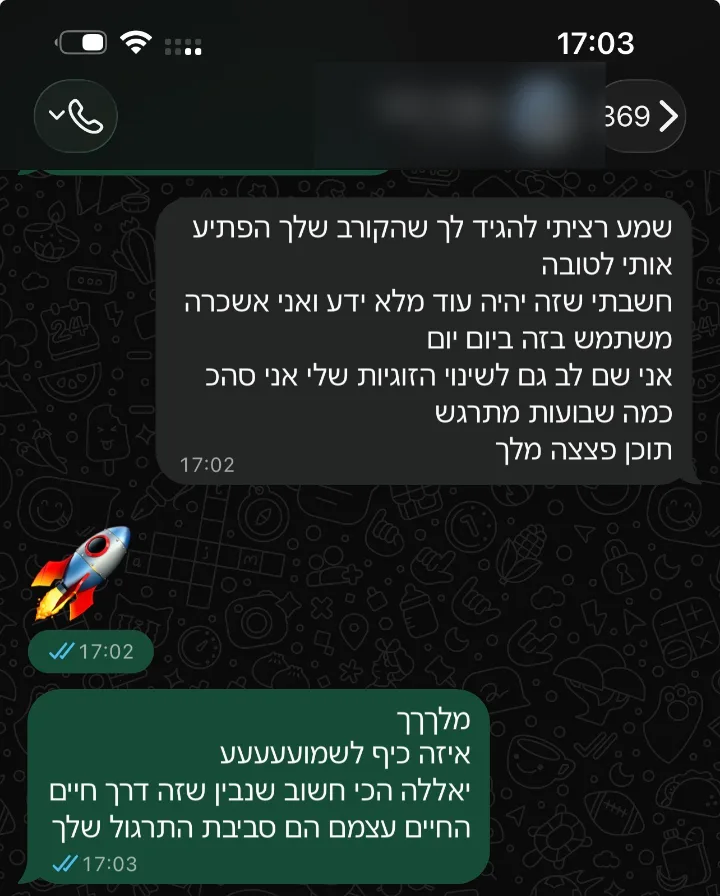
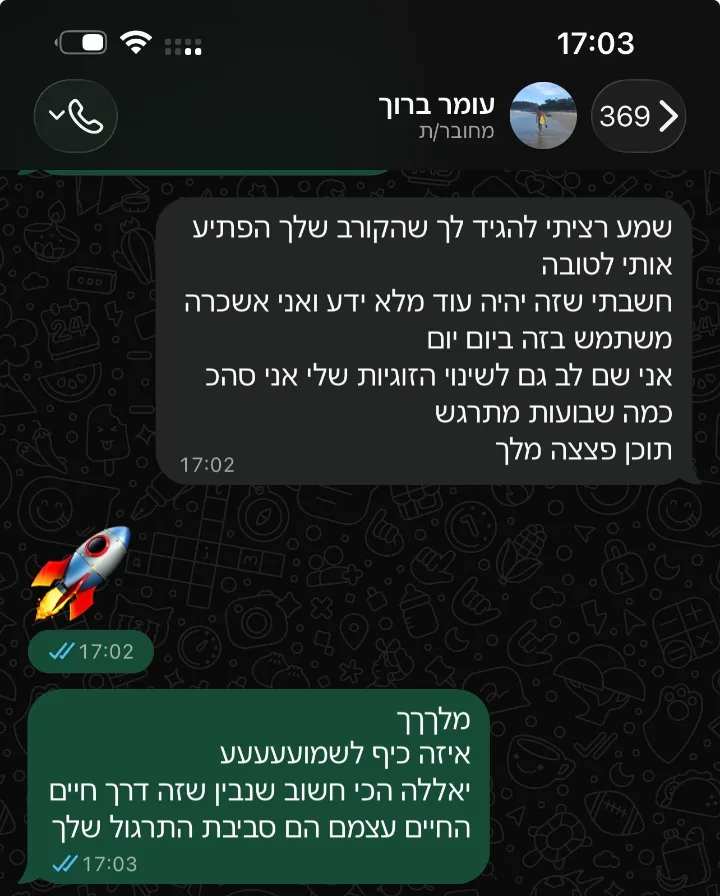
ב49: pr2 testimonials 0183/0188 without blur (permission confirmed), first names in captions
Claude-Session: https://claude.ai/code/session_01AWaDsUUa9CSR7XwcRd86aw

Changed region(s): [[0.5194, 0.0625, 0.825, 0.1875]]

diff --git a/nlp/pr2.html b/nlp/pr2.html
@@ -389,8 +389,8 @@ html.review [data-new]::before{content:attr(data-new);position:absolute;top:-14p
  <div class="narrow center"><h2 class="rv">אל תסתפק במה שאני מספר. <mark>תקרא מה אנשים אמיתיים בחרו לשתף.</mark></h2></div>
  <div class="car rv" data-car>
   <div class="car-track" tabindex="0" aria-label="עדויות מוואטסאפ, אפשר להחליק">
-   <figure class="slide" data-new="חדש - פרטים מטושטשים"><figcaption><q>חשבתי שזה יהיה עוד מלא ידע ואני אשכרה משתמש בזה ביום יום</q><span>משתתף · הודעה בוואטסאפ</span></figcaption><button class="zoom" type="button" aria-label="קריאת ההודעה המלאה"><img src="assets/pr/wa-o183.webp" alt="ההודעה המקורית בוואטסאפ, הפרטים האישיים מטושטשים" loading="lazy" decoding="async" width="720" height="896"></button></figure>
-   <figure class="slide" data-new="חדש - פרטים מטושטשים"><figcaption><q>אני כבר שבוע עושה את התרגול והטמעה של העוגן עם הקפה וממש מרגישה שינוי</q><span>משתתפת · העוגן עם הקפה</span></figcaption><button class="zoom" type="button" aria-label="קריאת ההודעה המלאה"><img src="assets/pr/wa-o188.webp" alt="ההודעה המקורית בוואטסאפ, הפרטים האישיים מטושטשים" loading="lazy" decoding="async" width="720" height="852"></button></figure>
+   <figure class="slide" data-new="חדש"><figcaption><q>חשבתי שזה יהיה עוד מלא ידע ואני אשכרה משתמש בזה ביום יום</q><span>עומר · משתמש בזה ביום יום</span></figcaption><button class="zoom" type="button" aria-label="קריאת ההודעה של עומר"><img src="assets/pr/wa-o183.webp" alt="ההודעה המקורית בוואטסאפ" loading="lazy" decoding="async" width="720" height="896"></button></figure>
+   <figure class="slide" data-new="חדש"><figcaption><q>אני כבר שבוע עושה את התרגול והטמעה של העוגן עם הקפה וממש מרגישה שינוי</q><span>בת אל · העוגן עם הקפה</span></figcaption><button class="zoom" type="button" aria-label="קריאת ההודעה של בת אל"><img src="assets/pr/wa-o188.webp" alt="ההודעה המקורית בוואטסאפ" loading="lazy" decoding="async" width="720" height="852"></button></figure>
    <figure class="slide"><figcaption><q>זה ממש פשוט וממש מורגש השינוי</q><span>צילה · אחרי שבועיים של תרגול</span></figcaption><button class="zoom" type="button" aria-label="קריאת ההודעה של צילה"><img src="assets/pr/wa-o181.webp" alt="ההודעה המקורית בוואטסאפ" loading="lazy" decoding="async" width="720" height="874"></button></figure>
   </div>
   <div class="car-nav" hidden><button type="button" class="prev" aria-label="העדות הקודמת">→</button><div class="dots" aria-hidden="true"></div><button type="button" class="next" aria-label="העדות הבאה">←</button></div>
